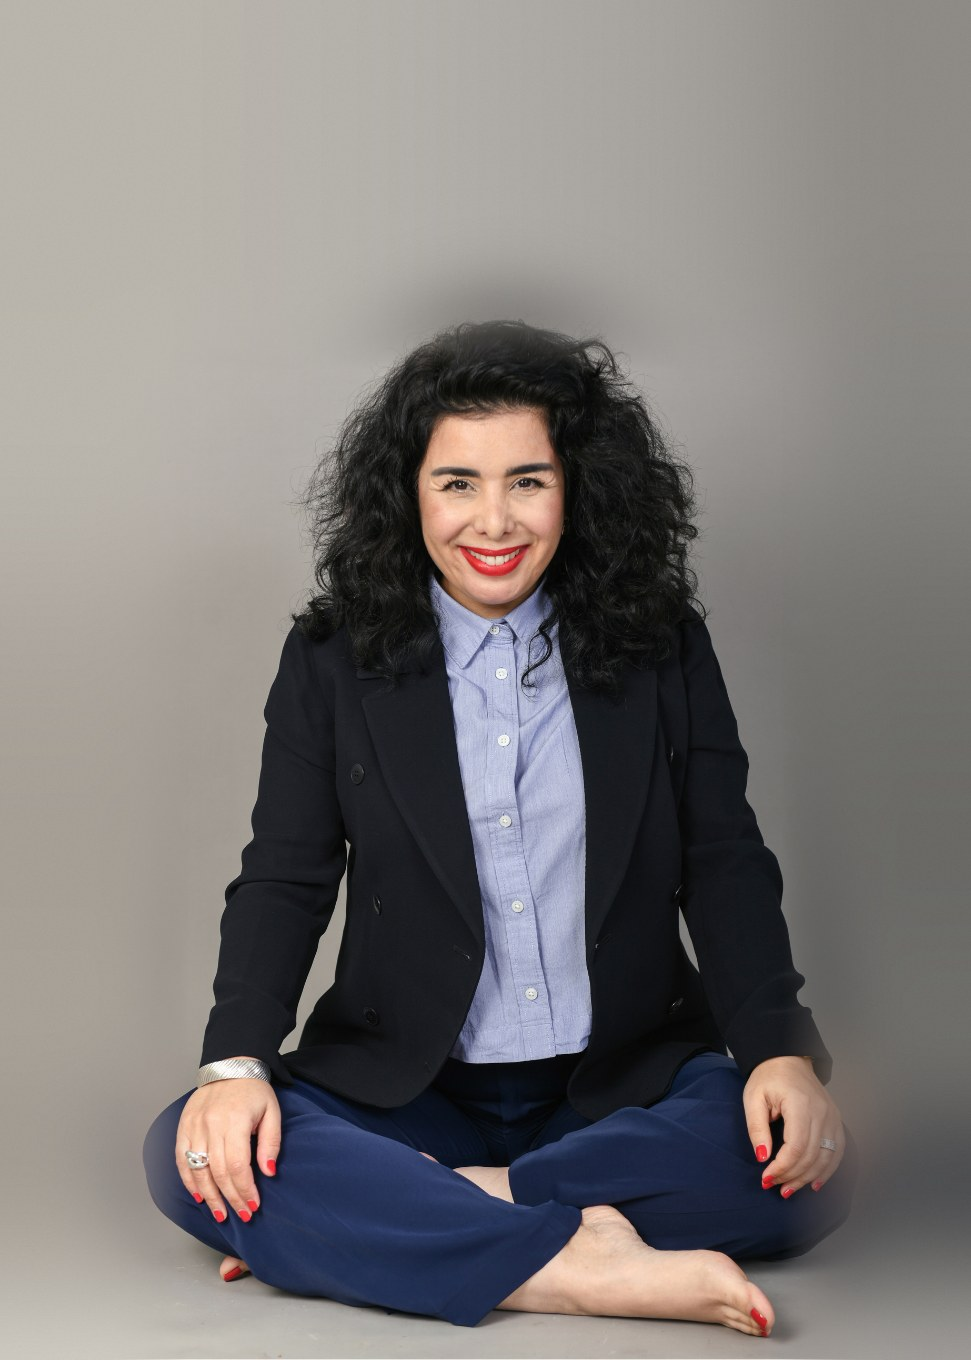
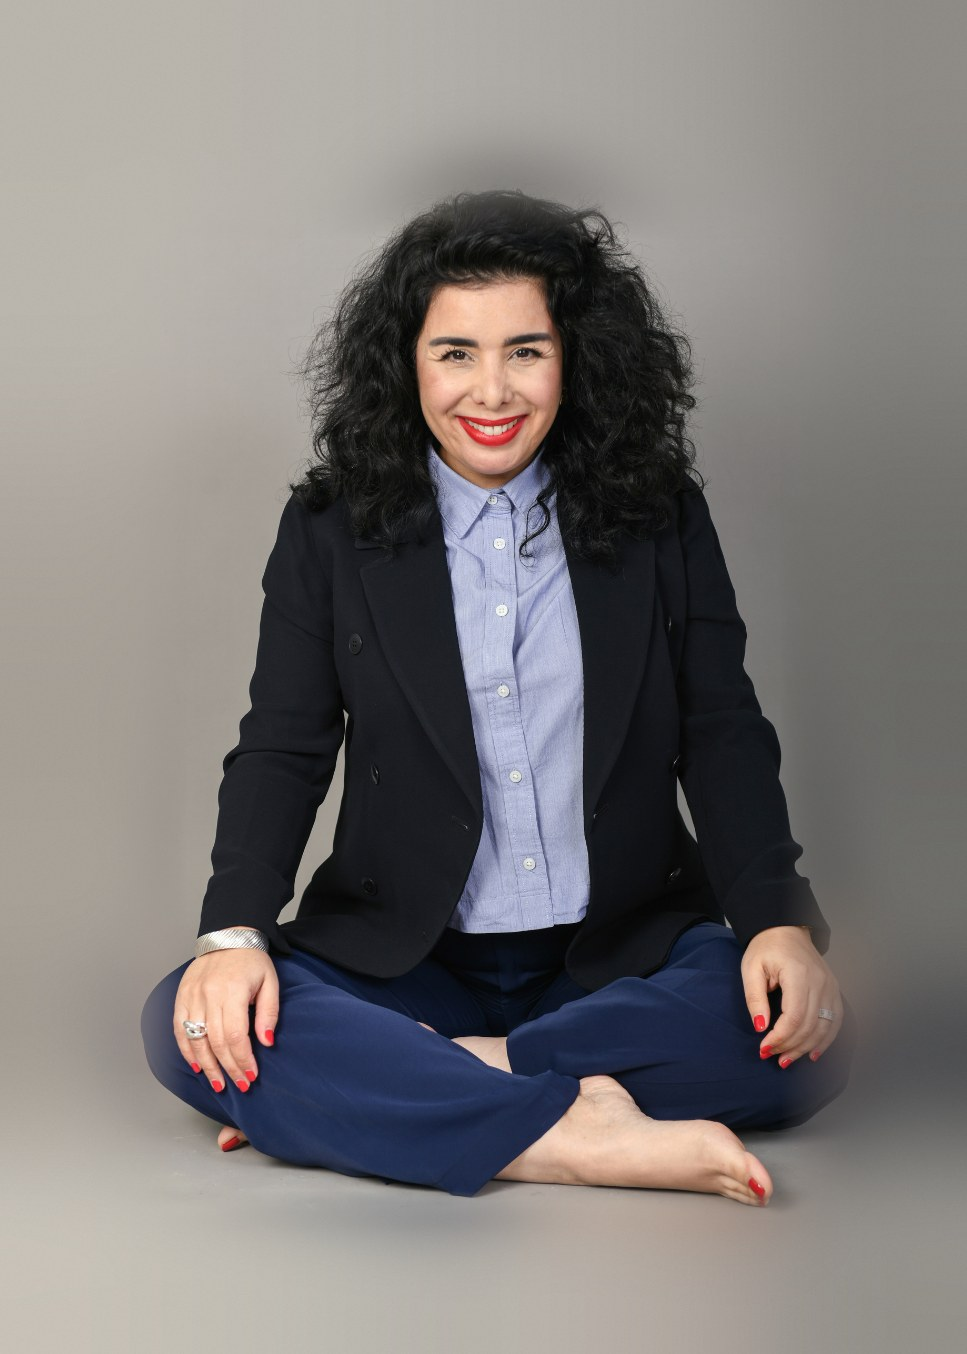
Home hero: balance head and foot space in the founder portrait

diff --git a/index.html b/index.html
@@ -36,7 +36,7 @@
         </div>
       </div>
       <figure class="hero-arch">
-        <div class="arch"><img src="assets/img/photos/mounia-hero-seated.jpg" alt="Mounia Hammouda, founder of SHIDO, seated cross-legged" width="971" height="1360" fetchpriority="high" style="object-position:50% 100%"></div>
+        <div class="arch"><img src="assets/img/photos/mounia-hero-seated.jpg" alt="Mounia Hammouda, founder of SHIDO, seated cross-legged" width="967" height="1354" fetchpriority="high" style="object-position:50% 100%"></div>
         <figcaption class="hero-caption" data-fr="Mounia Hammouda, fondatrice" data-es="Mounia Hammouda, fundadora" data-ar="منية حمودة، المؤسِّسة">Mounia Hammouda, founder</figcaption>
       </figure>
     </div>
